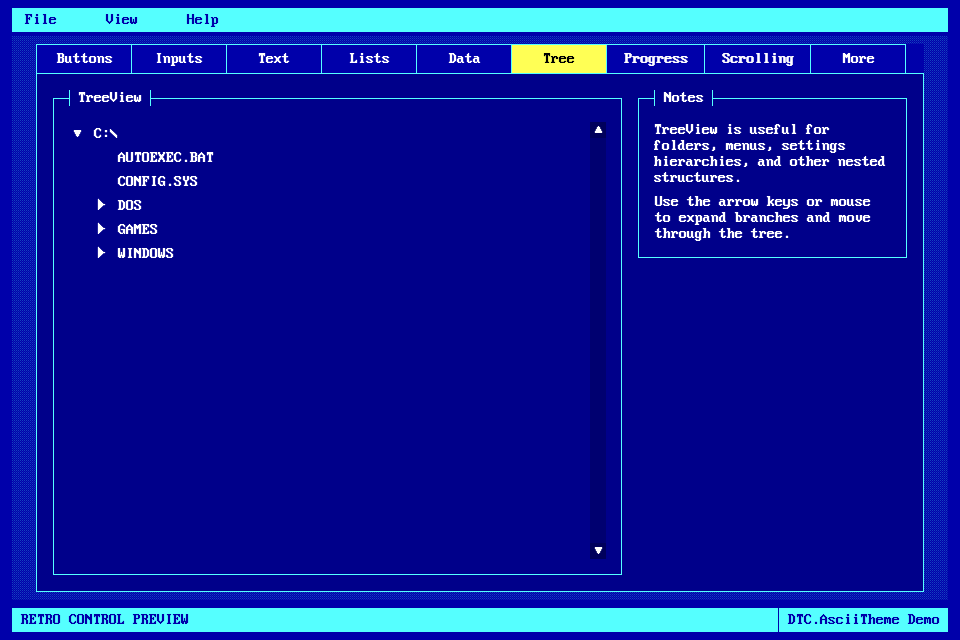
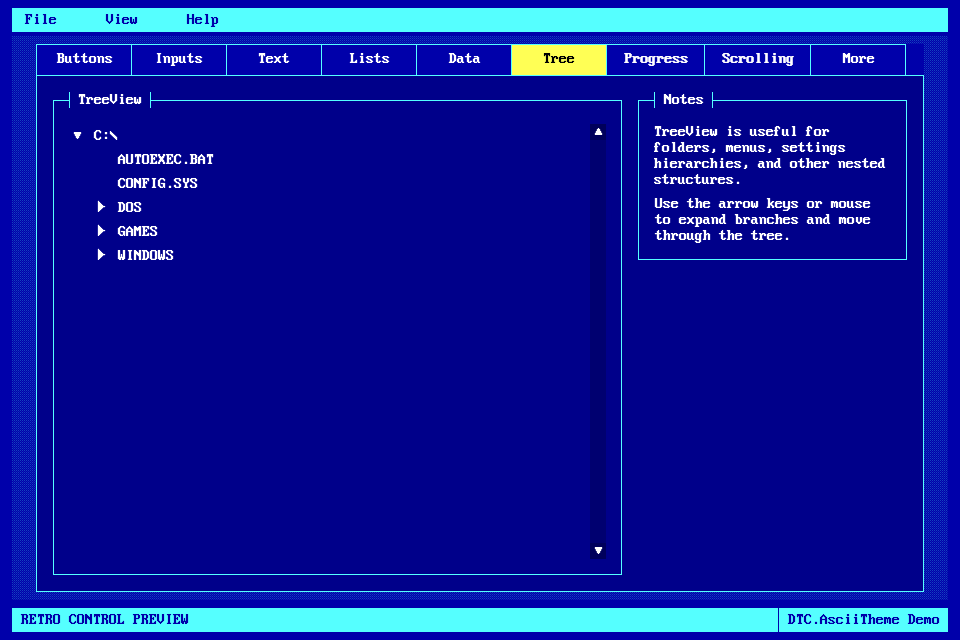
Feature: Add ZX font palette trial.

Changed region(s): [[0.0312, 0.0938, 0.9688, 0.4062], [0.125, 0.2188, 0.2188, 0.4062]]

diff --git a/DTC.AsciiTheme.Tests/DemoScreenshotTests.cs b/DTC.AsciiTheme.Tests/DemoScreenshotTests.cs
@@ -72,23 +72,24 @@ public sealed class DemoScreenshotTests
                     SaveScreenshot(window, tabItem);
                 }
 
-                var paletteFileNames = new[]
+                var paletteScreenshots = new[]
                 {
-                    "text-blue.png",
-                    "text-mono.png",
-                    "text-green.png",
-                    "text-plasma.png",
-                    "text-grey.png",
+                    (AsciiPalette.Blue, "text-blue.png"),
+                    (AsciiPalette.Mono, "text-mono.png"),
+                    (AsciiPalette.Green, "text-green.png"),
+                    (AsciiPalette.Plasma, "text-plasma.png"),
+                    (AsciiPalette.Grey, "text-grey.png"),
+                    (AsciiPalette.ZX, "text-zx.png"),
                 };
 
-                for (var paletteIndex = 0; paletteIndex < paletteFileNames.Length; paletteIndex++)
+                foreach (var (palette, fileName) in paletteScreenshots)
                 {
-                    AsciiPaletteManager.Apply(Avalonia.Application.Current!, (AsciiPalette)paletteIndex);
+                    AsciiPaletteManager.Apply(Avalonia.Application.Current!, palette);
                     tabControl.SelectedItem = textTab;
                     textTab.Focus();
                     await WaitForRenderAsync();
                     await WaitForRenderAsync();
-                    SaveScreenshot(window, paletteFileNames[paletteIndex]);
+                    SaveScreenshot(window, fileName);
                 }
             }
             finally

diff --git a/DTC.AsciiTheme.Demo/MainWindow.axaml.cs b/DTC.AsciiTheme.Demo/MainWindow.axaml.cs
@@ -151,6 +151,8 @@ public partial class MainWindow : Window
 
     private void HandleThemeGreyClick(object sender, RoutedEventArgs e) => ApplyPalette(AsciiPalette.Grey);
 
+    private void HandleThemeZxClick(object sender, RoutedEventArgs e) => ApplyPalette(AsciiPalette.ZX);
+
     private async void HandleAboutMenuClick(object sender, RoutedEventArgs e)
     {
         await AsciiMessageBox.ShowAsync(

diff --git a/DTC.AsciiTheme/AsciiPaletteManager.cs b/DTC.AsciiTheme/AsciiPaletteManager.cs
@@ -47,6 +47,7 @@ public static class AsciiPaletteManager
             AsciiPalette.Green => "Green.axaml",
             AsciiPalette.Plasma => "Plasma.axaml",
             AsciiPalette.Grey => "Grey.axaml",
+            AsciiPalette.ZX => "ZX.axaml",
             _ => throw new ArgumentOutOfRangeException(nameof(palette), palette, null),
         };
 

diff --git a/DTC.AsciiTheme/AsciiPalette.cs b/DTC.AsciiTheme/AsciiPalette.cs
@@ -18,4 +18,5 @@ public enum AsciiPalette
     Green,
     Plasma,
     Grey,
+    ZX,
 }

diff --git a/README.md b/README.md
@@ -118,6 +118,7 @@ The base theme ships with a blue DOS-style palette by default, and also includes
 - `avares://DTC.AsciiTheme/Palettes/Green.axaml`
 - `avares://DTC.AsciiTheme/Palettes/Plasma.axaml`
 - `avares://DTC.AsciiTheme/Palettes/Grey.axaml`
+- `avares://DTC.AsciiTheme/Palettes/ZX.axaml`
 
 Example:
 
@@ -155,6 +156,12 @@ The screenshots below all use the same `Text` tab content so the palette differe
 Simple light-grey retro palette with black text and strong inverse/highlight states.
 
 ![Grey palette screenshot](img/text-grey.png)
+
+### ZX
+
+Experimental ZX Spectrum-inspired variant using a close Spectrum-style bitmap font.
+
+![ZX palette screenshot](img/text-zx.png)
 
 ## Project layout
 - `DTC.AsciiTheme/` contains the reusable theme library.
